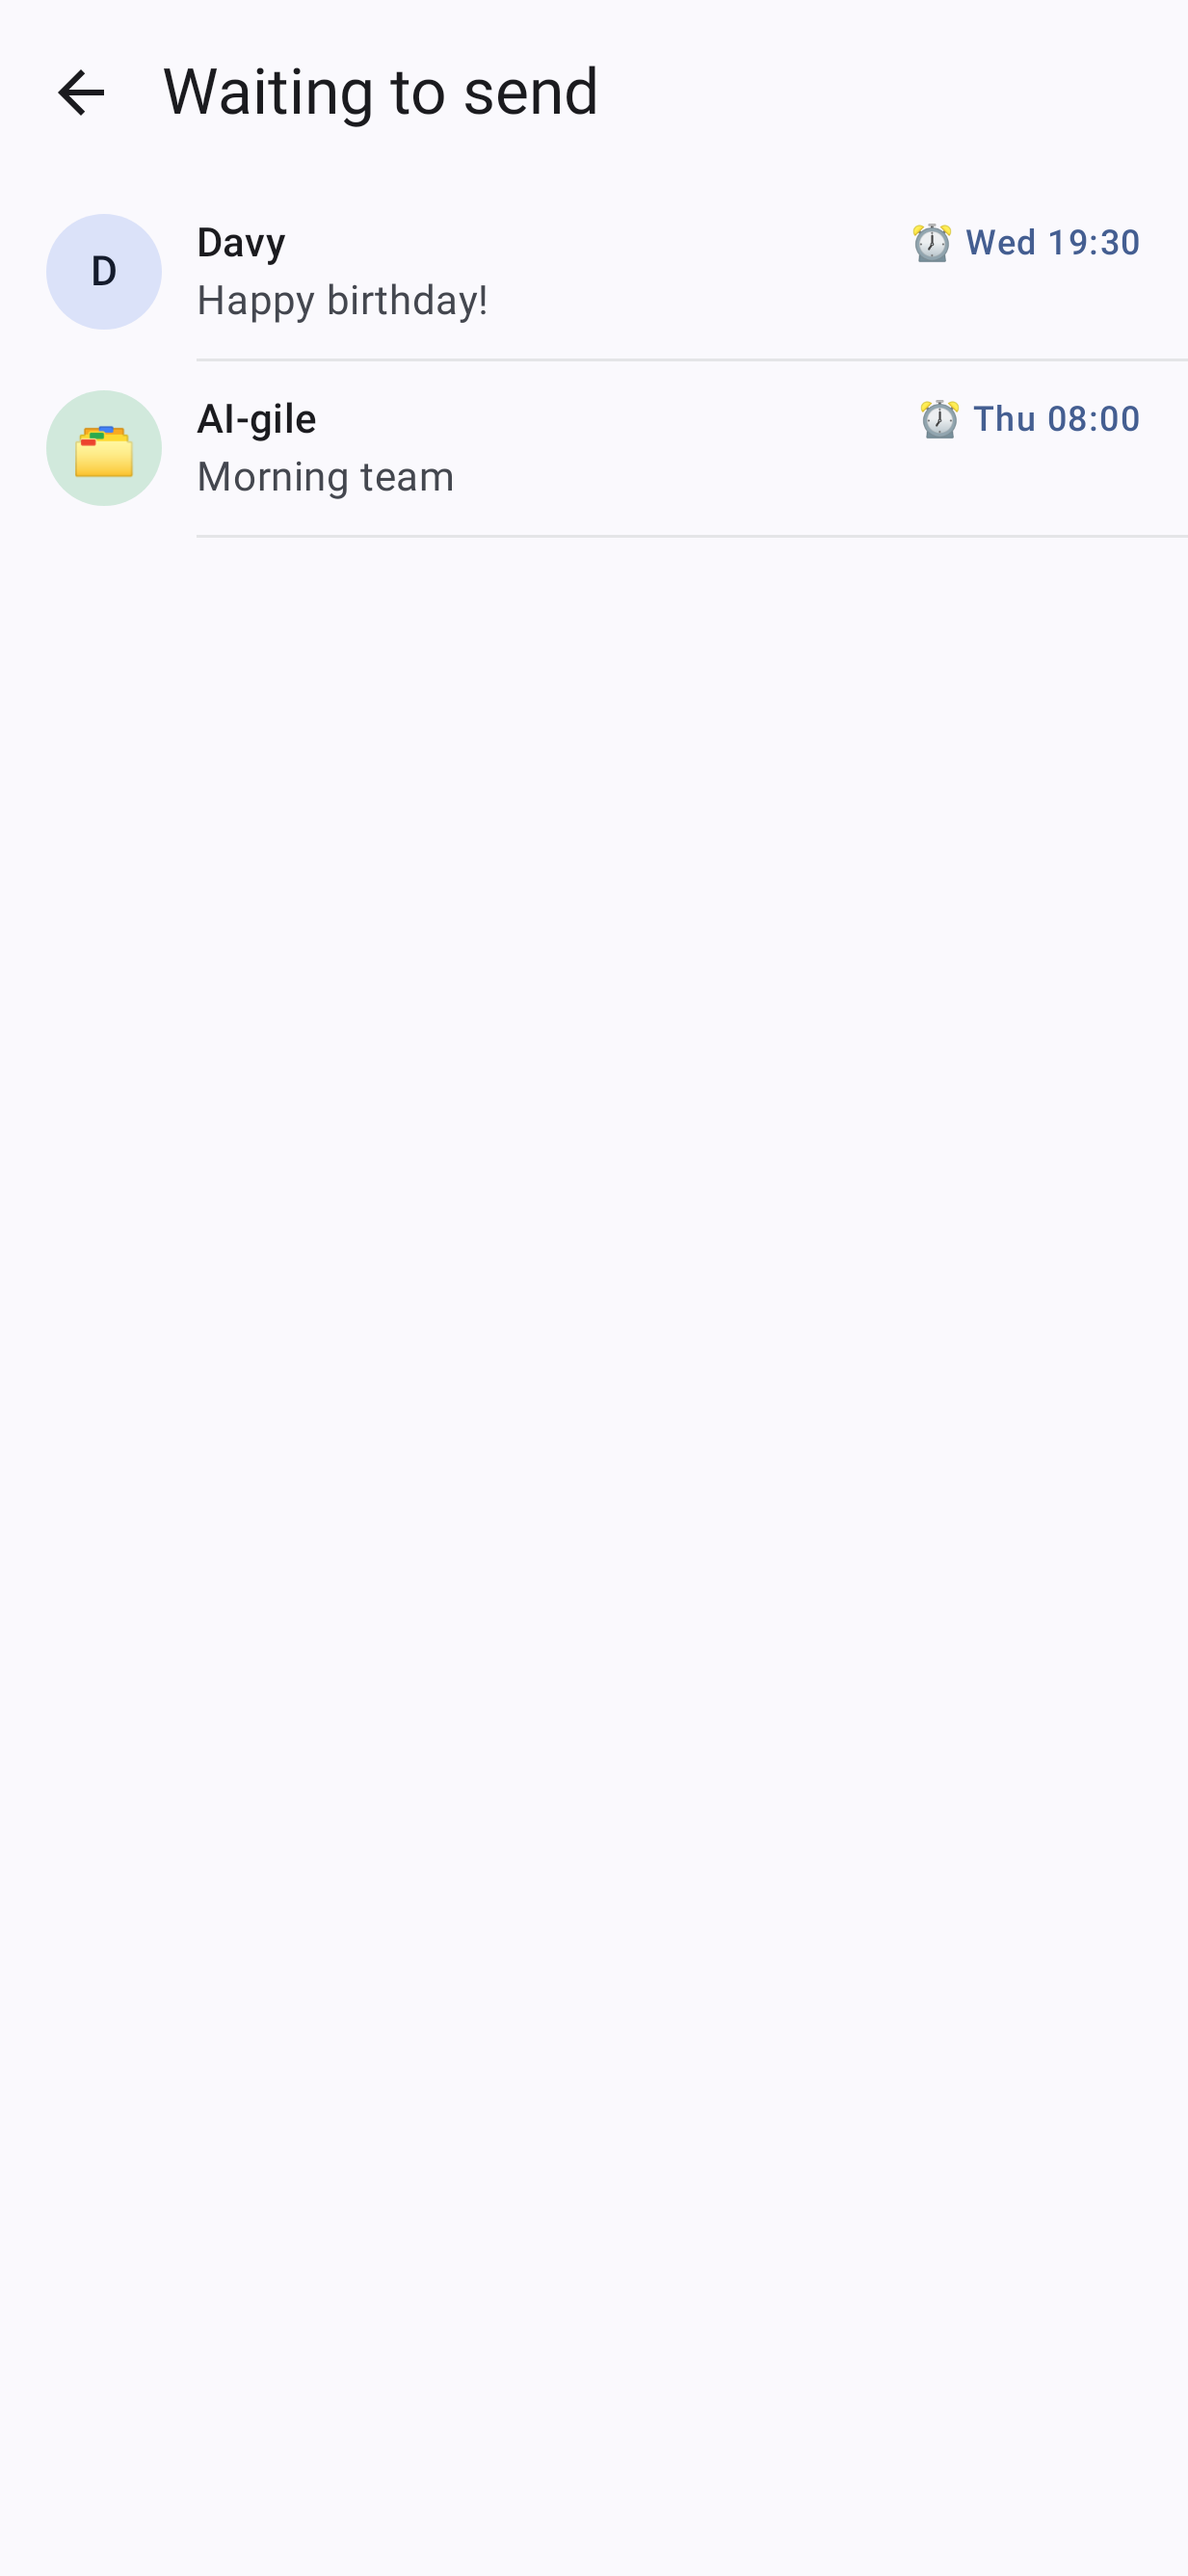
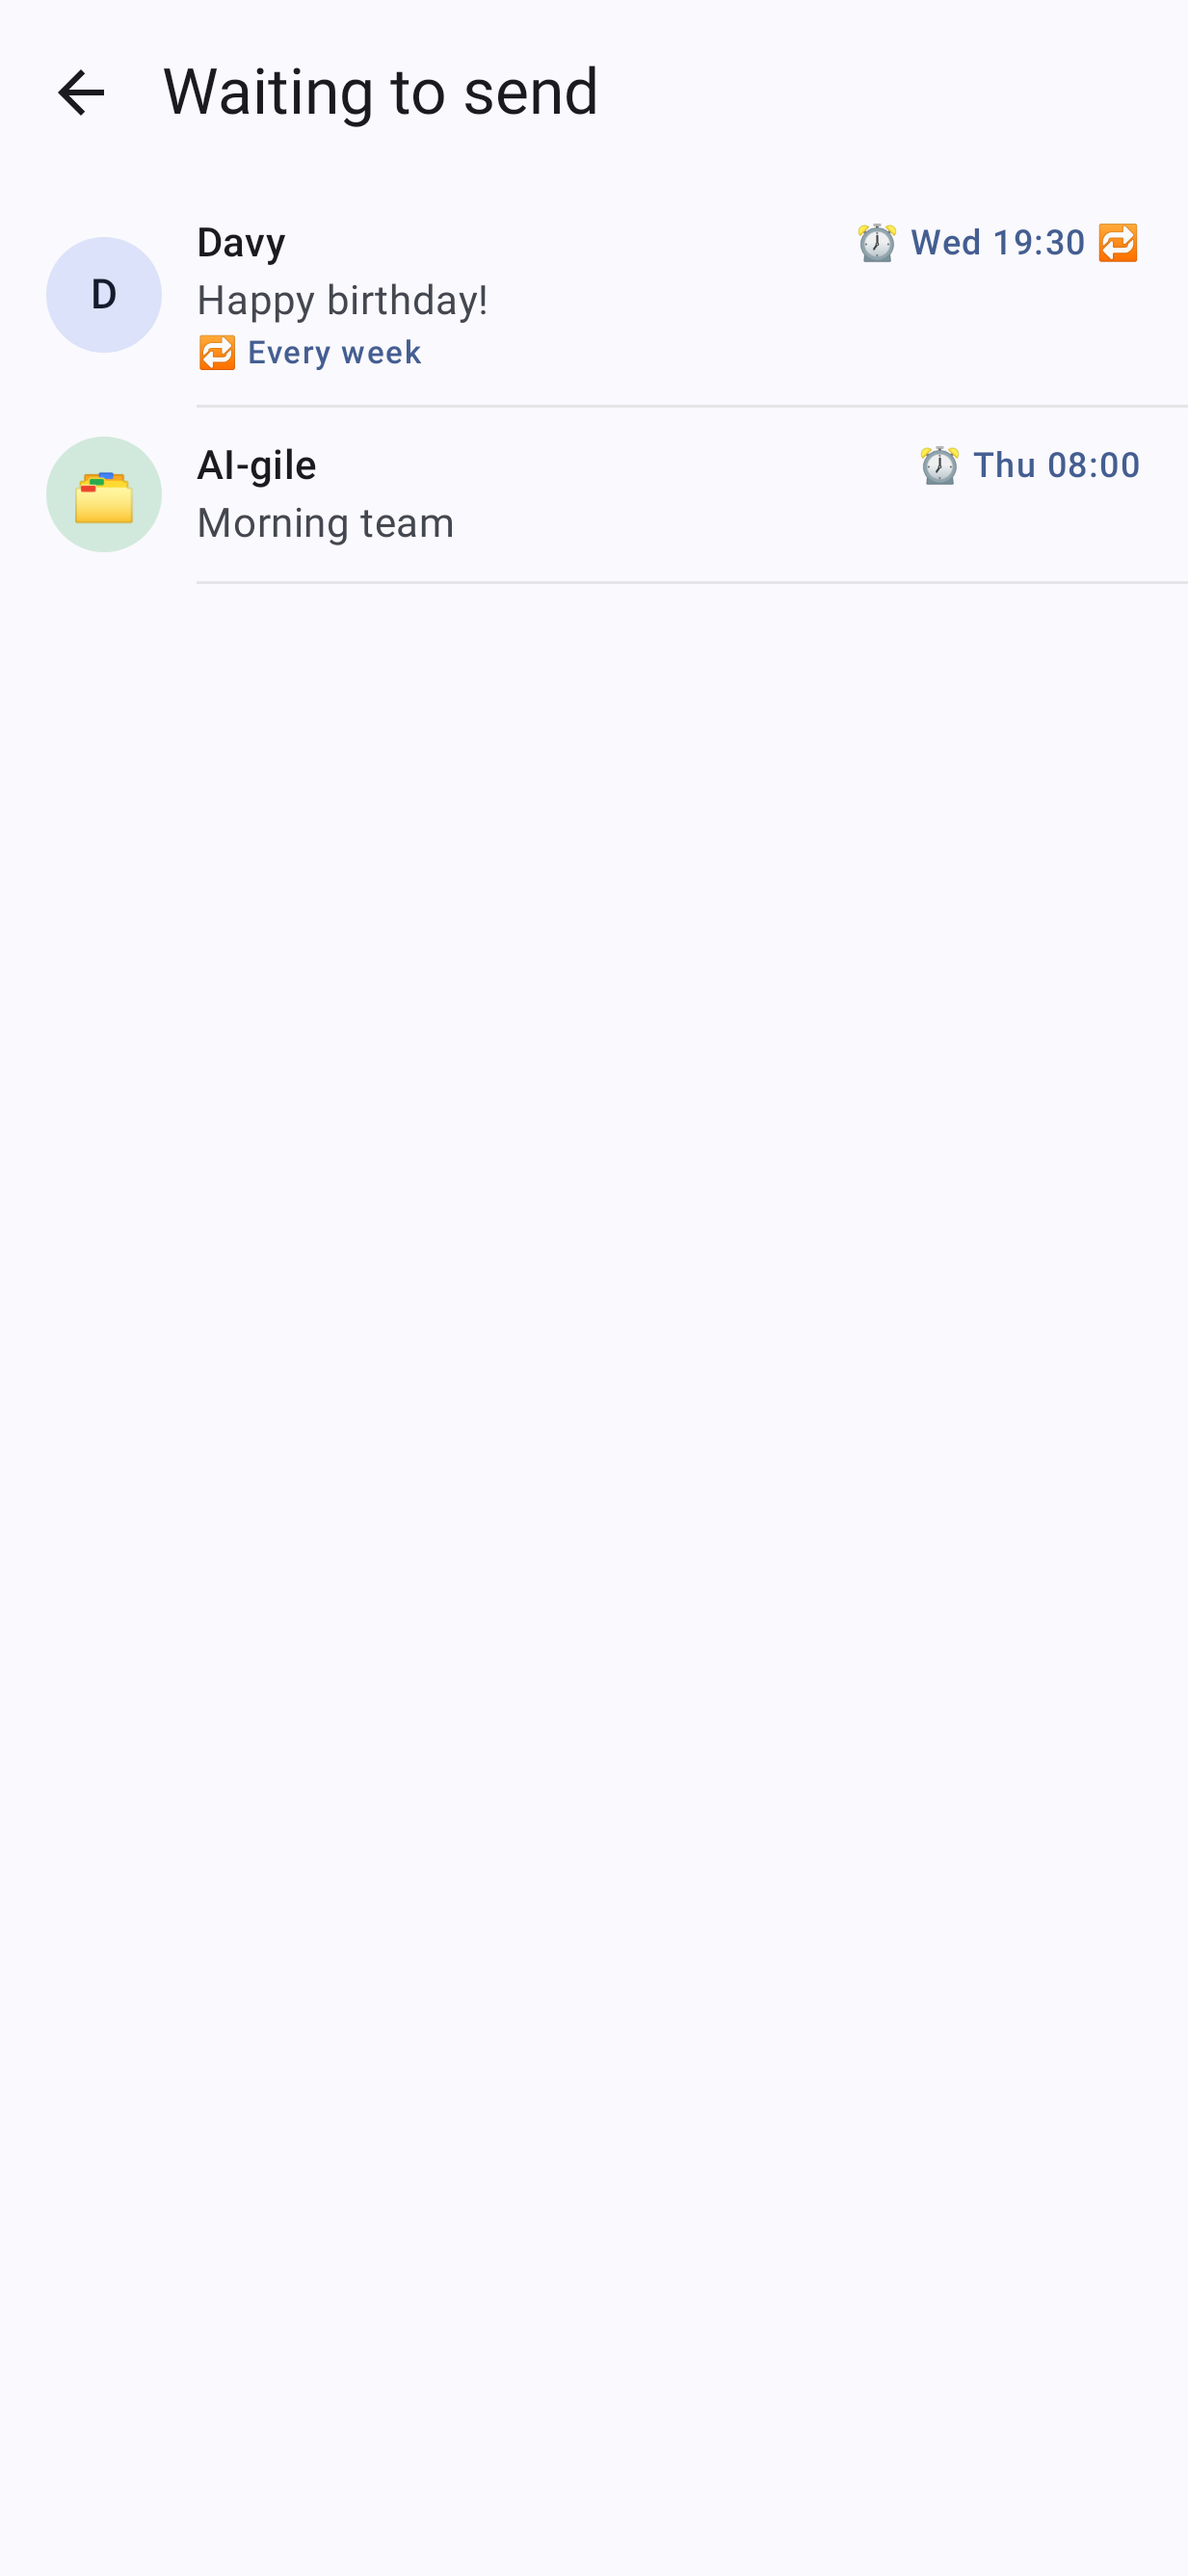
Send later: Waiting list says Every day or Every week under a repeating message (AII-178)

diff --git a/app/src/test/java/com/smizflark/aigile/messenger/screens/ChatsListShotTest.kt b/app/src/test/java/com/smizflark/aigile/messenger/screens/ChatsListShotTest.kt
@@ -104,6 +104,7 @@ class ChatsListShotTest : ShotBase() {
         val l = lead(); val f = chats.first { it.kind == com.smizflark.aigile.messenger.data.Kind.FRIEND }
         repo.queue(l, "Morning team", null, sendAt = java.time.Instant.parse("2026-10-15T07:00:00Z"))
         val soon = repo.queue(f, "Happy birthday!", null, sendAt = java.time.Instant.parse("2026-10-14T18:30:00Z"))
+        repo.setRepeat(soon.id, "week") // deleted below, so Send now on the other still empties the outbox
         var opened: Pair<ChatRef, String>? = null
         var waiting by androidx.compose.runtime.mutableStateOf(false)
         rule.setContent { MessengerTheme {
@@ -114,6 +115,7 @@ class ChatsListShotTest : ShotBase() {
         rule.onNodeWithTag("filter:scheduled").performScrollTo().performClick()
         rule.onNodeWithTag("open-waiting").performClick()
         rule.onAllNodesWithTag("waiting-row").assertCountEquals(2)
+        rule.onNodeWithText("🔁 Every week").assertIsDisplayed() // AII-178
         rule.waitForIdle()
         rule.onRoot().captureRoboImage("../docs/shots/waiting_light.png")
         rule.onAllNodesWithTag("waiting-row").onFirst().performClick()

diff --git a/app/src/main/java/com/smizflark/aigile/messenger/ui/WaitingScreen.kt b/app/src/main/java/com/smizflark/aigile/messenger/ui/WaitingScreen.kt
@@ -95,6 +95,9 @@ private fun WaitingRow(ref: ChatRef, p: Pending, repo: Repo, onClick: () -> Unit
                 val plain = Markdown.render(p.text, MaterialTheme.colorScheme.surfaceVariant, MaterialTheme.colorScheme.primary).text
                 Text(plain.replace('\n', ' '), style = MaterialTheme.typography.bodyMedium, color = MaterialTheme.colorScheme.onSurfaceVariant,
                     maxLines = 2, overflow = TextOverflow.Ellipsis)
+                // AII-178: say how often a repeating one goes, not just 🔁.
+                val every = when (p.repeat) { "day" -> R.string.every_day; "week" -> R.string.every_week; else -> null }
+                if (every != null) Text("🔁 " + stringResource(every), style = MaterialTheme.typography.labelSmall, color = MaterialTheme.colorScheme.primary)
             }
         }
         DropdownMenu(expanded = menu, onDismissRequest = { menu = false }) {
